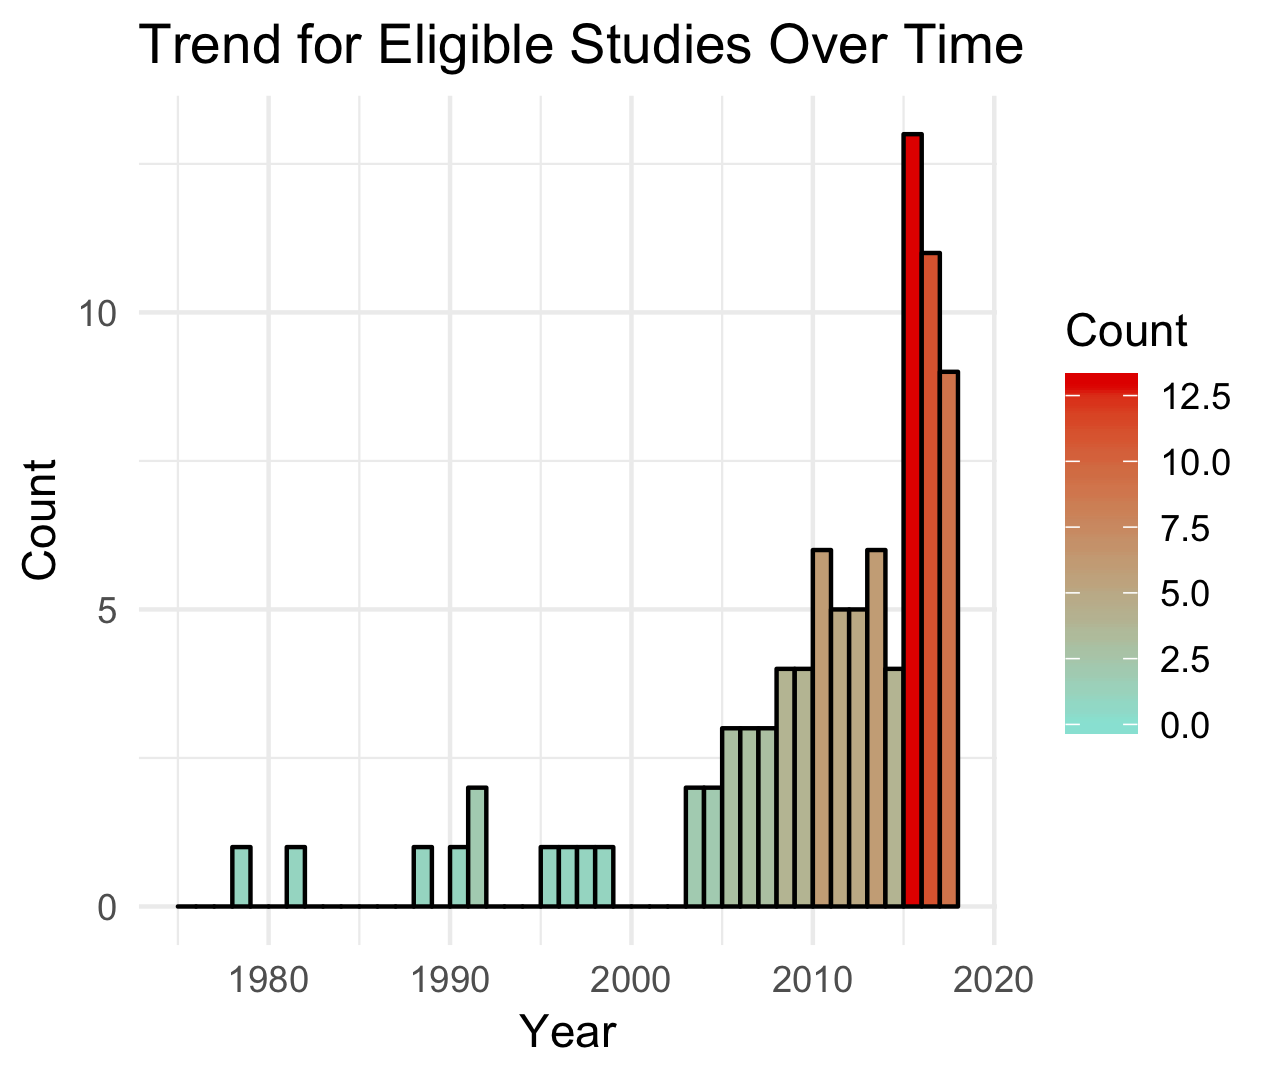
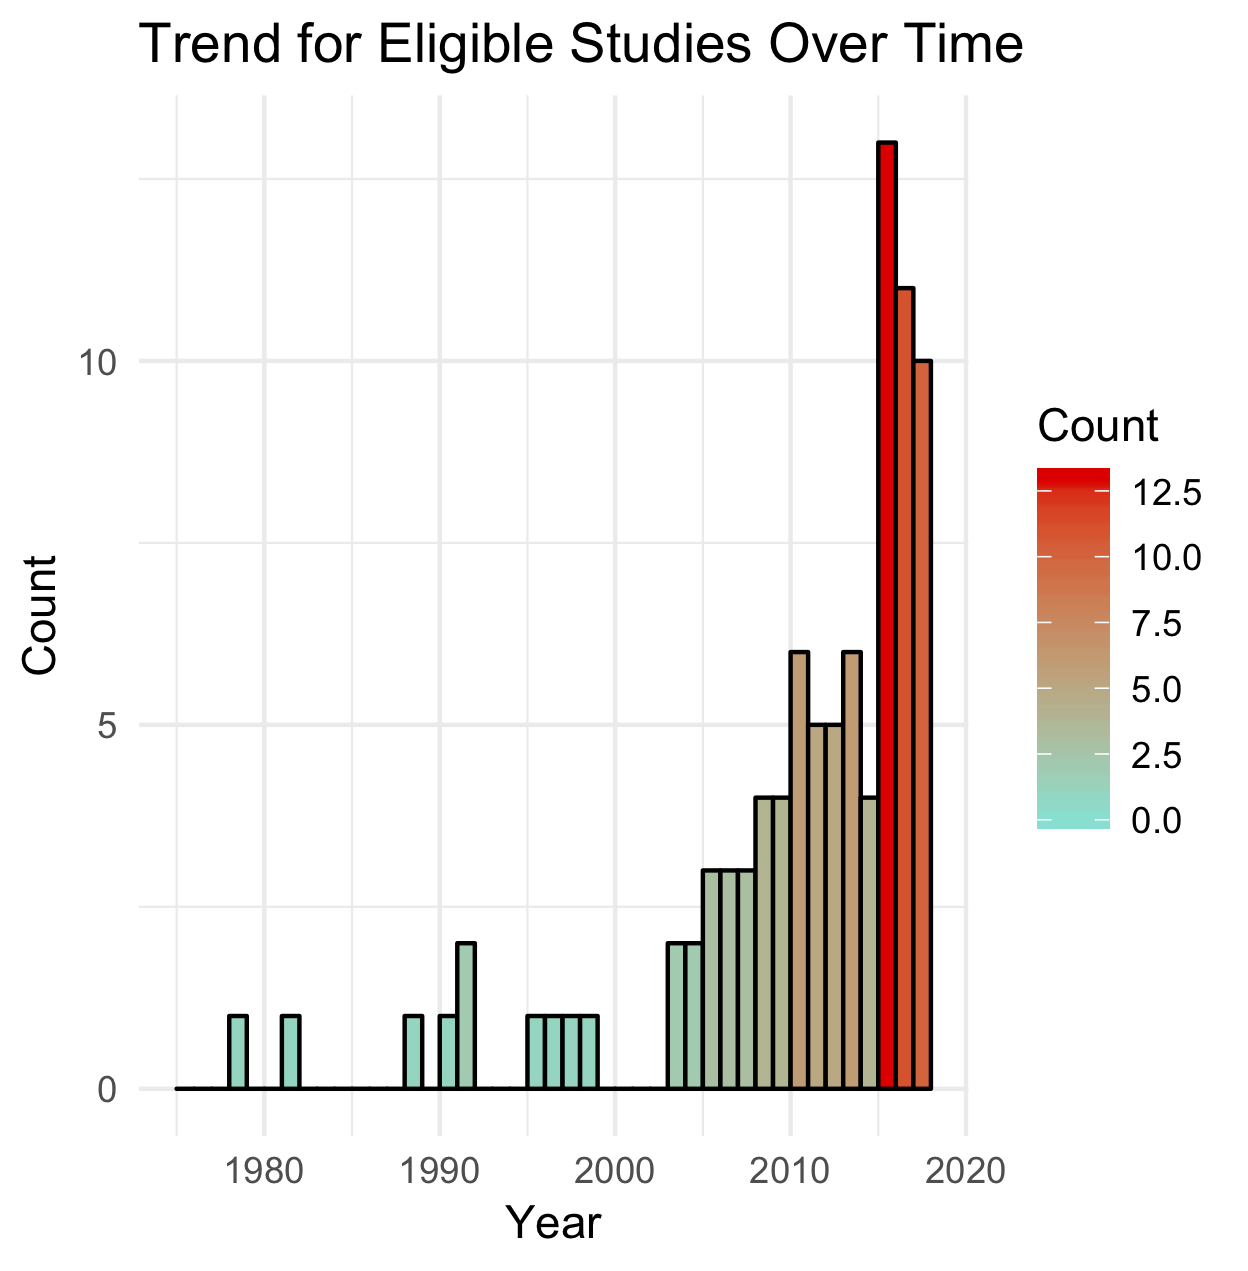
Updated to add one more study

diff --git a/index.html b/index.html
@@ -232,8 +232,8 @@
             target="_blank">the same methodology</a> as in the initial
             systematic review will occur annually in December/January. The
               initial review covered records up to November 2014, and identified 53 articles.
-	      The systematic updates in Jan 2016, 2017, 2018, 2019 added an additional 4, 13, 11, and 9 studies respectively,
-	      bringing the total number of eligible studies to <b>90</b> on this website. Those added in
+	      The systematic updates in Jan 2016, 2017, 2018, 2019 added an additional 4, 13, 11, and 10 studies respectively,
+	      bringing the total number of eligible studies to <b>91</b> on this website. Those added in
 	      the most recent update are marked with
             <b>*</b> in the <a href="#studies">table</a>. Between annual
             updates, we will also add new studies (marked with <font color=
@@ -747,6 +747,50 @@
 		  </tr>
 		  		  
 
+
+
+		  <tr>
+                    <td>
+                      <a href="http://dx.doi.org/10.1038/s41598-018-32402-5"
+                         target="_blank"><b>*</b> Lunsford-Avery et al.</a>
+                    </td>
+
+                    <td>2018</td>
+
+                    <td>Observational</td>
+
+                    <td>Data from longitudinal cohort study, sleep measured 10 years prior to health measures.</td>
+
+                    <td>1978 Com (older)</td>
+
+                    <td>39% White, 28% Black, 23% Hispanic</td>
+
+                    <td>68.7(9.2)</td>
+
+                    <td>54%</td>
+
+                    <td>7</td>
+
+                    <td>Actigraphy with diary</td>
+
+                    <td>SRI</td>
+
+                    <td>A, B, C</td>
+
+                    <td>A: age, sex, race, education, employment, light exposure; B: cardiovascular disease risk, BMI, blood pressure, hemoglobin, bood glucose, physical activity; C: depression, perceived stress, sleepiness.</td>
+
+                    <td>Age, sex, race</td>
+
+                    <td>
+                      <ul style="font-size: 13px;">
+                        <li>Irregularity ~ +age, female, Caucasian ethnicity, employment status, +daily light exposure (small), +risk for cardiovascular disease (small-moderate), +blood pressure (small), +BMI (small), +serum hemoglobin (small), +blood glucose (small), -physical activity (small), +depression, +perceived stress, +eveningness (small); +sleepiness (moderate); NS for education.</li>
+                      </ul>
+                    </td>
+		  </tr>
+		  		  
+
+
+		  
 		  
 		  
 <!-- 2018 update -->		  
@@ -4674,41 +4718,41 @@
             <div class="tabs-content">
                 <section aria-hidden="false" class="content active" id=
                 "panel2-1" role="tabpanel">
-                    <h4>A. Demographic and environmental factors (n = 26)</h4>
-                    <strong>Age</strong> (n = 21): Overall, in community samples,
+                    <h4>A. Demographic and environmental factors (n = 27)</h4>
+                    <strong>Age</strong> (n = 22): Overall, in community samples,
 		    younger age was
                     associated with more variable self-report sleep timing,
                     duration, and quality. Over a 10-y period, sleep timing IIV
                     did not change significantly among middle aged or older
                     adults who lived alone, but reduced among older adults who
                     cohabitated.<br>
-                    <strong>Sex</strong> (n = 7): Findings on the association
+                    <strong>Sex</strong> (n = 8): Findings on the association
                     between sex and sleep/wake IIV were inconclusive.<br>
-                    <strong>Race/ethnicity</strong> (n = 7): These studies
+                    <strong>Race/ethnicity</strong> (n = 8): These studies
                     examined different samples. Overall, minority race was
                     associated with more variable sleep quality, and findings
                     on sleep timing and duration are mixed.<br>
                     <strong>Cohabitation</strong> (n = 2): In mid-old aged
                     community adults, cohabitation was associated with less
                     variable sleep timing and duration.<br>
-                    <strong>Education</strong> (n = 3): 2 studies found non-significant
+                    <strong>Education</strong> (n = 4): 3 studies found non-significant
                     association between sleep duration IIV and education; 1 found
 		    more variable SOL associated with lower education. <br>
-                    <b>Care-giving (n = 2)</b> to dementia patients or family chaos
+		    <b>Light exposure</b> (n = 2) is shown to be lower in individuals with higher IIV. <br>
+                    <b>Care-giving</b> (n=2) to dementia patients or family chaos
 		    during the first year of parenthood was associated with
                     significantly more variable sleep patterns.
                     <b>Home environment</b> was associated with more variable
                     sleep duration a sleep laboratory. <b>Shiftwork</b>,
 		    <b>weekend</b>, but not <b>morning commitments</b> are associated
-		    with more variable sleep timing. <b>Light exposure</b> has been
-		    shown to differ between individuals with higher and lower sleep IIV.
+		    with more variable sleep timing.
                 </section>
 
 
                 <section aria-hidden="true" class="content" id="panel2-2" role=
                 "tabpanel">
-                    <h4>B. Physical health (n = 24)</h4>
-                    <strong>Health conditions</strong> (n = 5): In older
+                    <h4>B. Physical health (n = 25)</h4>
+                    <strong>Health conditions</strong> (n = 6): In older
                     adults, more variable sleep timing and duration were
                     associated with higher rates of and risk for diabetes,
 		    heart conditions,
@@ -4721,7 +4765,7 @@
 		    risk for diabetes. The onset of a serious
                     physical illness, however, did not contribute to changes in
                     sleep timing over a 10-y period in middle-aged adults.<br>
-                    <strong>Body weight</strong> (n = 8): In older adults, more
+                    <strong>Body weight</strong> (n = 9): In older adults, more
                     variable sleep timing and duration was associated with
                     higher BMI and higher rates of obesity. Among young adults,
                     more variable sleep timing was associated with greater
@@ -4735,12 +4779,12 @@
 		    <strong>DLMO</strong> (n = 2): Higher sleep IIV associated
 		    with later DLMO; greater changes in DLMO associated
 		    with more variable SOL.<br>
-		    <strong>Biomarkers</strong> (n = 3): Higher <b>inflammatory
+		    <strong>Biomarkers</strong> (n = 4): Higher <b>inflammatory
                     biomarkers</b> (IL-6 and TNF-α) were linked to more
                     variable sleep timing and duration in older adults,
                     particularly among those without sleep complaints. Across
                     menstrual cycles, higher mean <b>estradiol</b> has been
-                    associated with more variable sleep duration. More variable sleep timing and duration were associated with flatter <b>cortisol diurnal slope</b>, but associations between sleep IIV and multi-system physiological dysregulation (allostatic load) is non-significant after controlling for multiple covariates. In a community sample, more variable sleep duration was associated with greater <b>total white blood cell</b> and <b>absolute neutrophil</b> counts, but these were nonsignificant after adjusting for multiple comparisons.<br>
+                    associated with more variable sleep duration. More variable sleep timing and duration were associated with flatter <b>cortisol diurnal slope</b>, but associations between sleep IIV and multi-system physiological dysregulation (allostatic load) is non-significant after controlling for multiple covariates. In a community sample, more variable sleep duration was associated with greater <b>total white blood cell</b> and <b>absolute neutrophil</b> counts, but these were nonsignificant after adjusting for multiple comparisons. In older adults, more irregular sleeper had higher serum <b>hemoglobin</b> and fasting <b>blood glucose</b>.<br>
                     <strong>Other</strong>: Greater <b>pain</b> reports are associated with more variable discrepancy in objectively measured and sleep-reported sleep duration and quality. Having visual <b>blindness</b>
 		    was associated with more variable sleep efficiency and sleep offset timing. <b>VO₂peak</b> was associated with sleep duration IIV, and exercise intervention reduces sleep IIV.
                 </section>
@@ -4748,7 +4792,7 @@
 
                 <section aria-hidden="true" class="content" id="panel2-3" role=
                 "tabpanel">
-                    <h4>C. Psychological factors and function (n = 46)</h4>
+                    <h4>C. Psychological factors and function (n = 47)</h4>
                     <strong>Bipolar Disorder</strong> (n = 8): Compared to
                     healthy controls, patients in remission from bipolar
                     disorder had significantly more variable sleep duration and
@@ -4758,7 +4802,7 @@
 		    were associated with lower social rhythm regularity, greater symptom
 		    severity; more variable sleep duration was also linked to greater negative affect
 		    and greater variability in daily mood and affect. <br>
-                    <strong>Depressive symptoms</strong> (n = 12): There is
+                    <strong>Depressive symptoms</strong> (n = 13): There is
                     evidence that in both community and clinical samples, depressive
                     symptomatology is associated with more variable sleep
                     duration, and quality. Findings on sleep timing is somewhat
@@ -4766,7 +4810,7 @@
                     <strong>Cognitive function</strong> (n = 10): Findings on
                     cognitive function are inconclusive, with most studies
                     focusing on different samples and cognitive outcomes. Recently, studies linked high sleep IIV to risk for mild cognitive impairment and lower GPA. Another study found more variable sleep duration to be associated with worse verbal learning and working memory in Bipolar Disorder. A 2018 study on sleep duration IIV and executive functioning had mixed findings.<br>
-                    <strong>Daytime consequence</strong> (n = 7): Sleep/wake
+                    <strong>Daytime consequence</strong> (n = 8): Sleep/wake
                     IIV has been studied in relation to daytime fatigue,
                     sleepiness, performance on psychomotor vigilance tasks
                     (PVT), and microsleeps after sleep restriction, with mixed
@@ -4774,12 +4818,12 @@
                     daytime consequences of, and the recovery from, sleep
                     deprivation/disruption might be related to habitual
                     sleep/wake IIV.<br>
-                    <strong>Chronotype</strong> (n = 6): In both university
+                    <strong>Chronotype</strong> (n = 7): In both university
                     students and insomnia patients, evening chronotype was
                     associated with significantly more variable sleep timing,
-                    but not duration or quality. Chronotype was not shown to be
+                    but not duration or quality. In community based study of older adults, eveningness was mildly associated with more irregular sleep. Chronotype was not shown to be
 		    associated with sleep IIV in samples of Bipolar or blind individuals, but in patients with schizophrenia, more variable sleep timing, duration, and quality were associated with more eveningness and delayed sleep phase.<br>
-                    <strong>Stress</strong> (n = 4): In community adults, more
+                    <strong>Stress</strong> (n = 5): In community adults, more
                     variable sleep duration was associated with higher number
                     of stressful life events and social strain, but was not related to a
                     biomarker of stress, norepinephrine, or social support. In young adults, sleep
@@ -5124,7 +5168,13 @@
                         "_blank">Phillips, Clerx, O’Brien, Sano, Barger, Picard,...& Czeisler. (2017). Irregular sleep/wake patterns are associated with poorer academic performance and delayed circadian and sleep/wake timing. Scientific reports, 7(1), 3216.</a></p>
                    
                        <p><a href="http://dx.doi.org/10.1002/aur.1899" target=
-                        "_blank">Cohen, Fulcher, Rajaratnam, Conduit, Sullivan, St Hilaire,... & Braga-Kenyon. (2018). Sleep patterns predictive of daytime challenging behavior in individuals with low‐functioning autism. Autism Research, 11(2), 391-403.</a></p>
+                             "_blank">Cohen, Fulcher, Rajaratnam, Conduit, Sullivan, St Hilaire,... & Braga-Kenyon. (2018). Sleep patterns predictive of daytime challenging behavior in individuals with low‐functioning autism. Autism Research, 11(2), 391-403.</a></p>
+
+<p><a href="http://dx.doi.org/10.1038/s41598-018-32402-5" target=
+                             "_blank">Lunsford-Avery, Engelhard, Navar, & Kollins. (2018). Validation of the Sleep Regularity Index in older adults and associations with cardiometabolic risk. Scientific Reports, 8(1), 14158.</a></p>
+
+
+		       
                     </blockquote>
 
                 </section>
